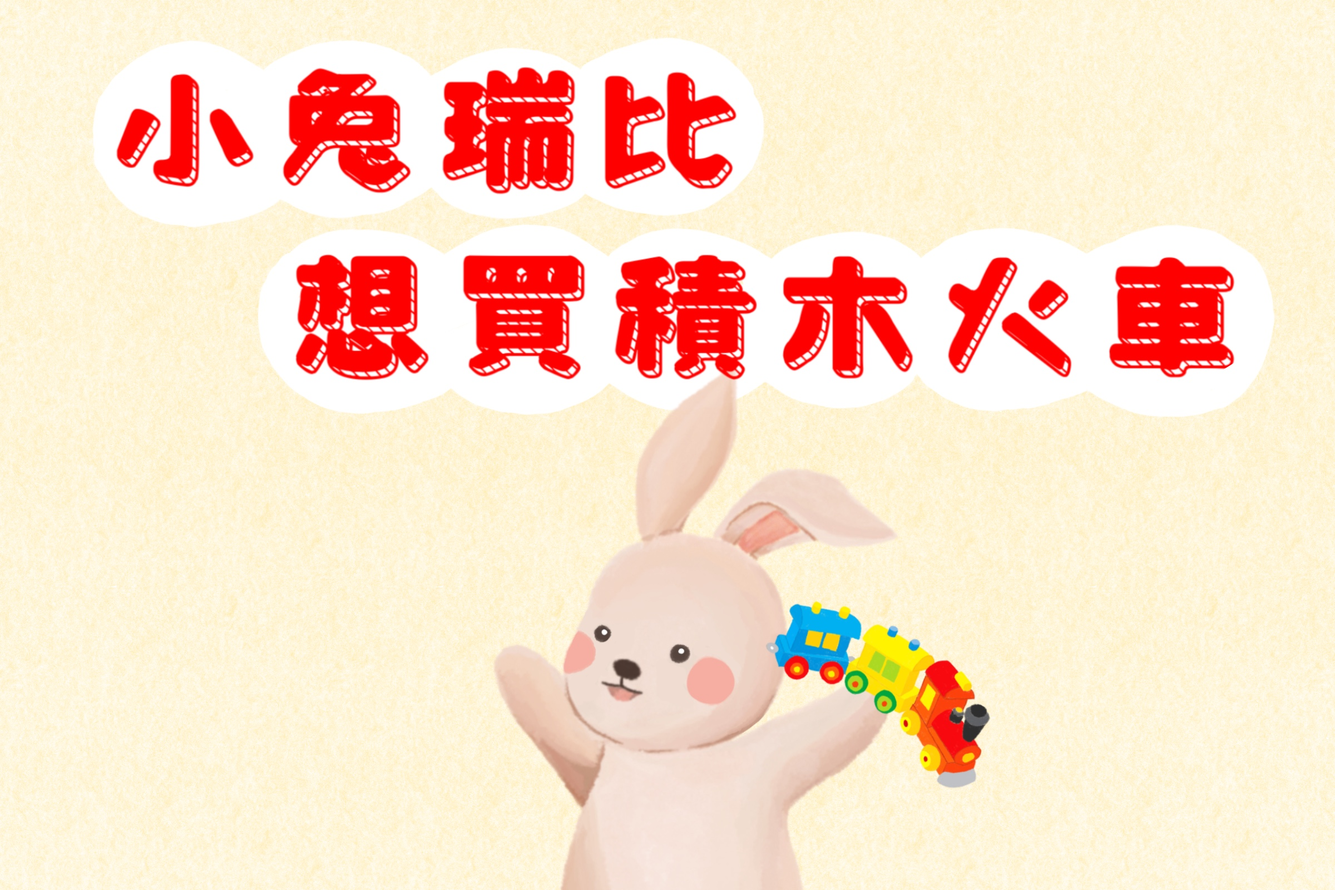
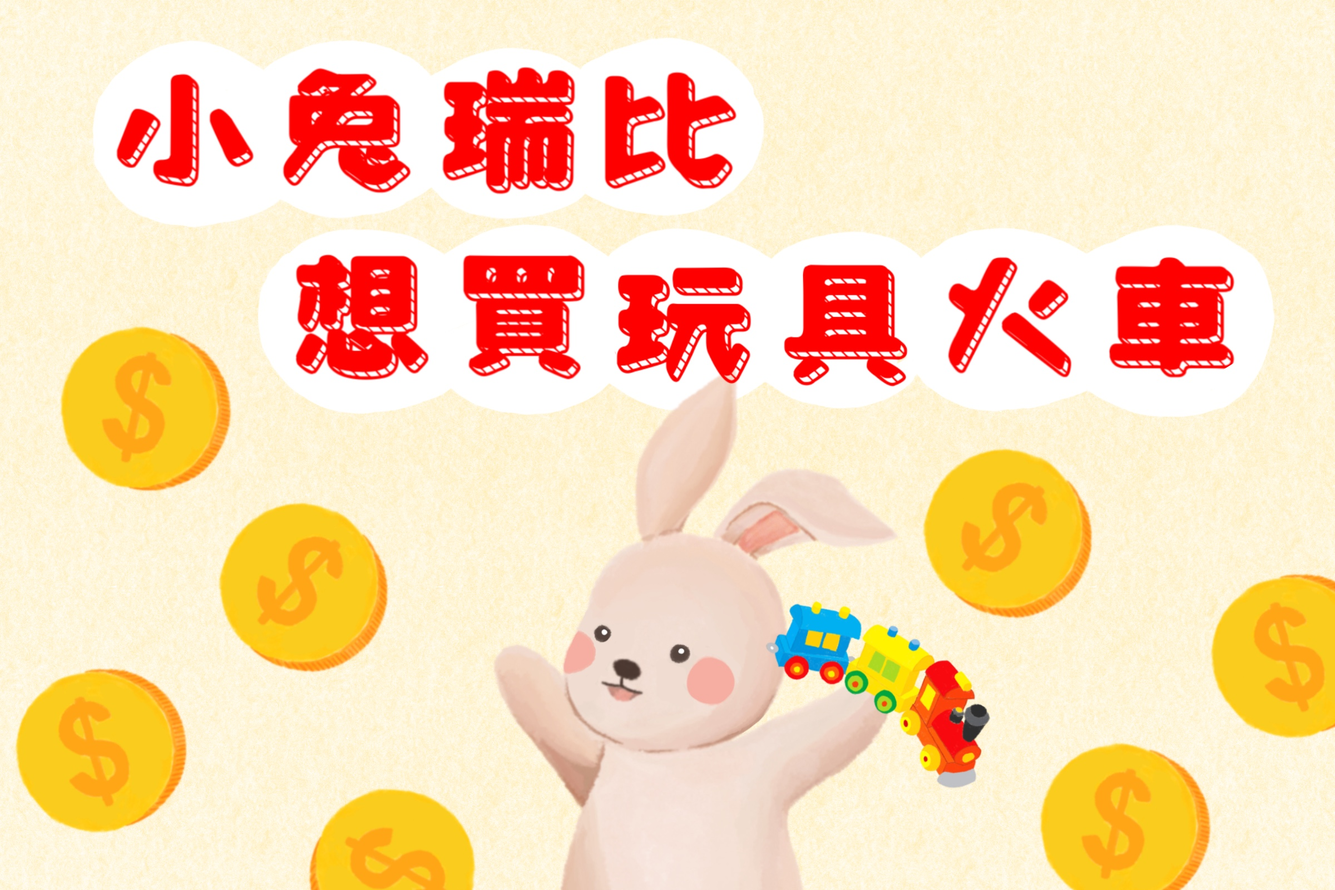
0809test

diff --git a/style.css b/style.css
@@ -6,14 +6,14 @@ body {
   align-items: center;
   flex-direction: column;
   height: 100vh;
-  overflow: hidden;
+  overflow: scroll;
 }
 
 #book {
   width: 45%;
   height: 45%; /* Adjust height as needed */
   display: flex;
-  justify-content: top;
+  justify-content: center;
   align-items: center;
   position: relative;
   transform: scale(0.45);
@@ -25,19 +25,19 @@ body {
   display: flex;
   justify-content: center;
   gap: 20px;
-  margin-top: -435px; /* Move buttons up by 200px */
+  margin-top: -435px;
 }
 
 button {
   padding: 10px 20px;
   font-size: 16px;
   cursor: pointer;
-  background-color: #007bff;
+  background-color: #6b360e;
   color: white;
   border: none;
   border-radius: 5px;
 }
 
 button:hover {
-  background-color: #0056b3;
+  background-color: #6b360e;
 }

diff --git a/index.html b/index.html
@@ -3,7 +3,7 @@
 <head>
     <meta charset="UTF-8">
     <meta name="viewport" content="width=device-width, initial-scale=1.0">
-    <title>小兔瑞比想要買玩具火車</title>
+    <title>小兔瑞比想買玩具火車</title>
     <link rel="stylesheet" href="style.css">
 </head>
 <body>
